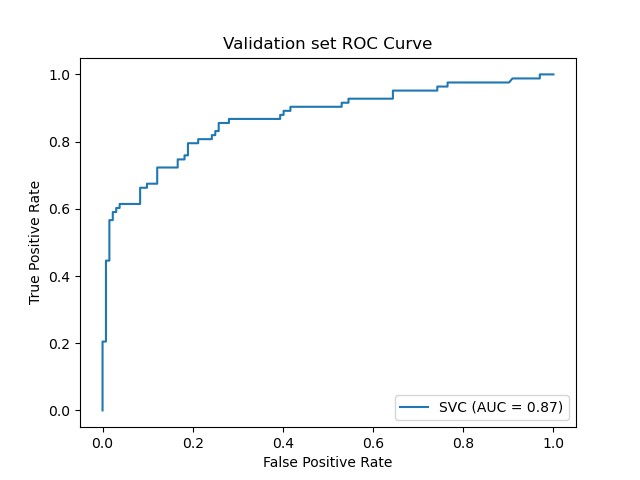
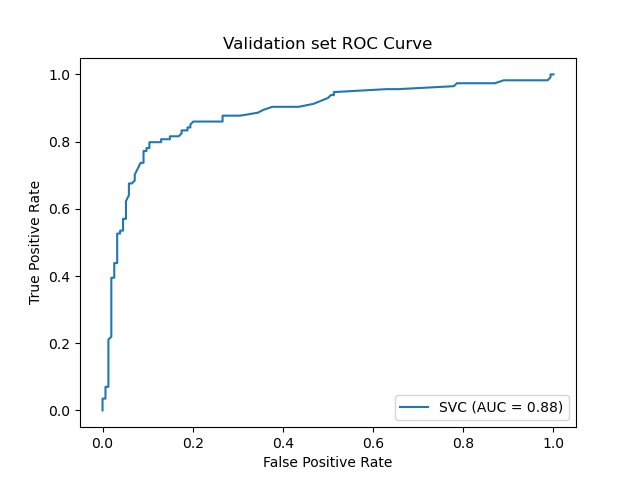
more feature engineering from Kaggle examples

Changed region(s): [[0.1562, 0.1562, 0.875, 0.8438], [0.8438, 0.8438, 0.875, 0.875]]

diff --git a/titanic/titanic_Pipeline_Ensemble.py b/titanic/titanic_Pipeline_Ensemble.py
@@ -14,6 +14,7 @@ from sklearn.metrics import plot_roc_curve
 from sklearn.model_selection import train_test_split
 from sklearn.preprocessing import scale
 import matplotlib.pyplot as plt
+import numpy as np
 
 
 def read_data():
@@ -70,7 +71,7 @@ def read_data():
     return train_df, test_df
 
 
-def feature_engineering(train_df, test_df):
+def feature_engineering(train, test):
     """
 
     Converts categorical features into dummy features.
@@ -91,38 +92,81 @@ def feature_engineering(train_df, test_df):
 
     """
 
-    # Select features to train and test, convert categorical features to dummy features
-    feature_cols = ['Pclass', 'Sex', 'Age', 'Fare', 'Embarked']
-    passengerID_train = train_df['PassengerId']
-    passengerID_test = test_df['PassengerId']
-    logging.info('Features used: {}'.format(feature_cols))
-    print('Features used: {}'.format(feature_cols))
+    full_data = [train, test]
 
-    # get dummy features
-    train_df = pd.get_dummies(train_df[['Survived'] + feature_cols], columns=['Sex', 'Embarked'])
-    test_df = pd.get_dummies(test_df[feature_cols], columns=['Sex', 'Embarked'])
+    # Some features of my own that I have added in
 
-    # fill nan values
-    train_df.fillna(0, inplace=True)
-    test_df.fillna(0, inplace=True)
+    # Feature that tells whether a passenger had a cabin on the Titanic
+    train['Has_Cabin'] = train["Cabin"].apply(lambda x: 0 if type(x) == float else 1)
+    test['Has_Cabin'] = test["Cabin"].apply(lambda x: 0 if type(x) == float else 1)
 
-    # Scale features
-    train_df['Age'] = scale(train_df['Age'])
-    train_df['Fare'] = scale(train_df['Fare'])
+    # Feature engineering steps taken from Sina
+    # Create new feature FamilySize as a combination of SibSp and Parch
+    for dataset in full_data:
+        dataset['FamilySize'] = dataset['SibSp'] + dataset['Parch'] + 1
+    # Create new feature IsAlone from FamilySize
+    for dataset in full_data:
+        dataset['IsAlone'] = 0
+        dataset.loc[dataset['FamilySize'] == 1, 'IsAlone'] = 1
+    # Remove all NULLS in the Embarked column
+    for dataset in full_data:
+        dataset['Embarked'] = dataset['Embarked'].fillna('S')
+    # Remove all NULLS in the Fare column and create a new feature CategoricalFare
+    for dataset in full_data:
+        dataset['Fare'] = dataset['Fare'].fillna(train['Fare'].median())
+    train['CategoricalFare'] = pd.qcut(train['Fare'], 4)
+    # Create a New feature CategoricalAge
+    for dataset in full_data:
+        age_avg = dataset['Age'].mean()
+        age_std = dataset['Age'].std()
+        age_null_count = dataset['Age'].isnull().sum()
+        age_null_random_list = np.random.randint(age_avg - age_std, age_avg + age_std, size=age_null_count)
+        dataset['Age'][np.isnan(dataset['Age'])] = age_null_random_list
+        dataset['Age'] = dataset['Age'].astype(int)
+    train['CategoricalAge'] = pd.cut(train['Age'], 5)
 
-    test_df['Age'] = scale(test_df['Age'])
-    test_df['Fare'] = scale(test_df['Fare'])
+    # Define function to extract titles from passenger names
+    def get_title(name):
+        title_search = re.search(' ([A-Za-z]+)\.', name)
+        # If the title exists, extract and return it.
+        if title_search:
+            return title_search.group(1)
+        return ""
 
-    train_df['PassengerId'] = passengerID_train
-    test_df['PassengerId'] = passengerID_test
+    # Create a new feature Title, containing the titles of passenger names
+    for dataset in full_data:
+        dataset['Title'] = dataset['Name'].apply(get_title)
+    # Group all non-common titles into one single grouping "Rare"
+    for dataset in full_data:
+        dataset['Title'] = dataset['Title'].replace(
+            ['Lady', 'Countess', 'Capt', 'Col', 'Don', 'Dr', 'Major', 'Rev', 'Sir', 'Jonkheer', 'Dona'], 'Rare')
 
-    logging.info('Scaled features')
+        dataset['Title'] = dataset['Title'].replace('Mlle', 'Miss')
+        dataset['Title'] = dataset['Title'].replace('Ms', 'Miss')
+        dataset['Title'] = dataset['Title'].replace('Mme', 'Mrs')
 
-    # drop nan features
-    train_df.dropna(inplace=True)
-    test_df.dropna(inplace=True)
+    for dataset in full_data:
+        # Mapping Sex
+        dataset['Sex'] = dataset['Sex'].map({'female': 0, 'male': 1}).astype(int)
 
-    return train_df, test_df
+        # Mapping titles
+        title_mapping = {"Mr": 1, "Miss": 2, "Mrs": 3, "Master": 4, "Rare": 5}
+        dataset['Title'] = dataset['Title'].map(title_mapping)
+        dataset['Title'] = dataset['Title'].fillna(0)
+
+        # Mapping Embarked
+        dataset['Embarked'] = dataset['Embarked'].map({'S': 0, 'C': 1, 'Q': 2}).astype(int)
+
+    train['FamilySize'] = scale(train['FamilySize'])
+    test['FamilySize'] = scale(test['FamilySize'])
+
+    train['Fare'] = scale(train['Fare'])
+    test['Fare'] = scale(test['Fare'])
+
+    train['Age'] = scale(train['Age'])
+    test['Age'] = scale(test['Age'])
+
+    return train, test
 
 
 def train_and_test(train_df, test_df):
@@ -142,14 +186,20 @@ def train_and_test(train_df, test_df):
 
     """
 
+    # Feature selection
+    drop_elements = ['PassengerId', 'Name', 'Ticket', 'Cabin', 'SibSp']
+    train_df = train_df.drop(drop_elements + ['CategoricalAge', 'CategoricalFare'], axis=1)
+
     # create training and test split
-    x_train, x_val, y_train, y_val = train_test_split(train_df.drop(['Survived', 'PassengerId'], axis=1), train_df['Survived'], test_size=0.3)
-    x_test = test_df.drop(['PassengerId'], axis=1)
+    x_train, x_val, y_train, y_val = train_test_split(train_df.drop(['Survived'], axis=1), train_df['Survived'], test_size=0.3)
+    x_test = test_df.drop(drop_elements, axis=1)
 
     # set up an SVM classifier
     C = .8
     logging.info('Training using an SVM model.')
     logging.info('SVM Params: C: {}'.format(C))
+    logging.info('Features Used: {}'.format(x_train.keys()))
+    print('Features Used: {}'.format(x_train.keys()))
     clf = svm.SVC(C=C)
     clf.fit(x_train, y_train)
 
@@ -189,16 +239,14 @@ def train_and_test(train_df, test_df):
     logging.info('Predictions training: \n{}'.format(pred_train))
     logging.info('Predictions validation: \n{}'.format(pred_val))
 
+    plt.clf()
     plot_roc_curve(clf, x_train, y_train)
     plt.title('Training set ROC Curve')
     plt.savefig('plots/training_ROC.png')
-    plt.show()
     plt.clf()
     plot_roc_curve(clf, x_val, y_val)
     plt.title('Validation set ROC Curve')
     plt.savefig('plots/validation_ROC.png')
-    plt.show()
-    plt.clf()
 
     return pred_test
 
